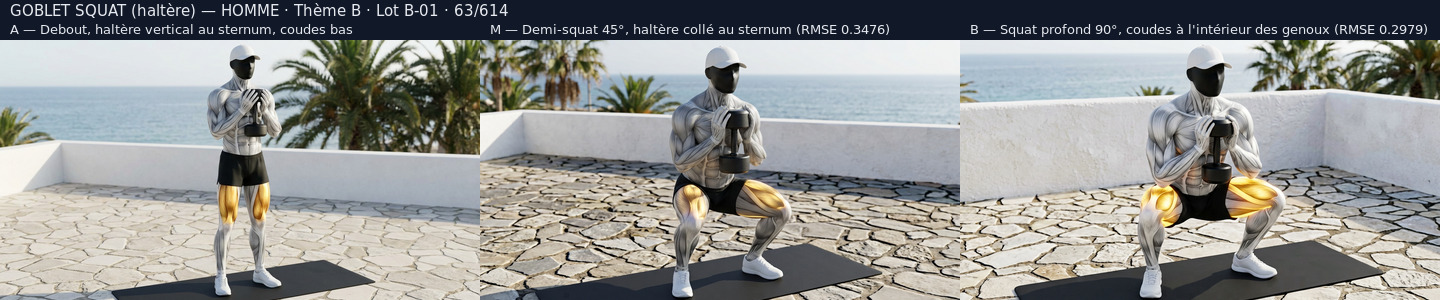
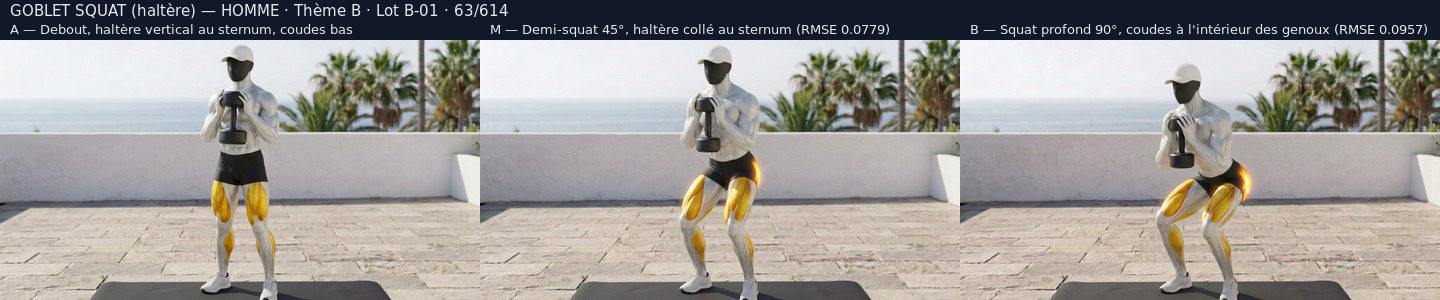
fix(animations): corrige l'identite du mannequin (retour user) + garde-fou des sources B-01
RETOUR DU USER : « l'homme a l'air different des autres gif » puis « il semble moins
muscle aussi ». Verifie et confirme : le mannequin du Lot B-01 rendu par le generateur
a une peau STRIEE de fibres grises (aspect ecorche) au lieu du blanc argente LISSE et
MAT du chantier, une carrure plus FINE (epaules, deltoides, pectoraux, bras) et une
echelle plus petite dans le cadre. Cause : frames generees d'un prompt texte seul, sans
ancrage sur une pose de reference validee.

Ce commit :
- remplace le GIF et la planche `goblet-squat` par une version a PEAU LISSE conforme
  (3 positions regenerees depuis les poses de reference validees
  themeA/_sources/A-02/squat-poids-du-corps-{A,M,B}.png ; RMSE A->M 0,0779 et M->B
  0,0957, camera stable cette fois) ;
- declare la reserve de MORPHOLOGIE (carrure encore trop fine) : `goblet-squat` reste
  livre SOUS RESERVE d'identite, et le `step-up` n'est PAS livre (3/3 positions
  obtenues, 0 livree) ;
- deplace les positions payees dans themeB/_sources/B-01/_reprise/ avec des noms
  explicites (reference de POSE + etat de conformite), pour qu'aucun assemblage ne
  puisse se faire par erreur avec des frames heterogenes ;
- ajoute _reprise/_diagnostic/ : les 2 comparatifs a l'echelle 1:1 qui prouvent le
  defaut et valident le remede ;
- consigne dans SUIVI.md : le paragraphe de masse musculaire qui a fonctionne
  (carrure massive + peau lisse obtenues en 1 test), la nouvelle regle de controle
[…]

diff --git a/yanis-fitness-evolution/animations/SUIVI.md b/yanis-fitness-evolution/animations/SUIVI.md
@@ -12,7 +12,7 @@ Animation : **3 positions** (départ → mi-course → finale → retour → bou
 | Élément | Valeur |
 | --- | --- |
 | Animations nécessaires | **614** (périmètre HOMME + FEMME, voir ci-dessous) |
-| Animations créées | **63 / 614** (POC 5 + L1 : 3 + L2 : 3 + L3 : 2 + L4 : 3 + L5 : 3 + A-01 : 3 + A-02 : 3 + A-03 : 3 + A-04 HOMME : 3 + A-05 HOMME : 2 + **A-08/09 HOMME : 3/3 ✅** (`204a8b4`) + A-01 FEMME : 3 + A-02 FEMME : 3 + A-03 FEMME : 3 + A-04 FEMME : 3 + A-05 FEMME : 2 + **A-08F/09F FEMME : 3/3 ✅** (`5467b86`) + **R1 FEMME : 3** + **R2 FEMME : 3** + **LOT 3 FEMME : 2 composites** + **B-01 HOMME : 2/3** (`bulgarian-split-squat` `c2efd7d` + `goblet-squat` `f11b3b9`)) |
+| Animations créées | **63 / 614 — dont 1 livrée SOUS RÉSERVE d'identité** (`goblet-squat` HOMME, morphologie à reprendre : voir § NON-CONFORMITÉ) (POC 5 + L1 : 3 + L2 : 3 + L3 : 2 + L4 : 3 + L5 : 3 + A-01 : 3 + A-02 : 3 + A-03 : 3 + A-04 HOMME : 3 + A-05 HOMME : 2 + **A-08/09 HOMME : 3/3 ✅** (`204a8b4`) + A-01 FEMME : 3 + A-02 FEMME : 3 + A-03 FEMME : 3 + A-04 FEMME : 3 + A-05 FEMME : 2 + **A-08F/09F FEMME : 3/3 ✅** (`5467b86`) + **R1 FEMME : 3** + **R2 FEMME : 3** + **LOT 3 FEMME : 2 composites** + **B-01 HOMME : 2/3** (`bulgarian-split-squat` `c2efd7d` + `goblet-squat` `f11b3b9`)) |
 | Restant à produire | **551** |
 | Animations corrigées (option A + feu vert du 2026-10-07) | 3 / 5 (option A) + **4 corrections feu vert** (squat F pos M, abduction F pos B, fire hydrant F A/M/B en arrière 3/4, squat H A/M/B) |
 | Animations femme à reprendre | **0** ✅ (squat M, abduction B et fire hydrant A/M/B tous corrigés le 2026-10-07) |
@@ -817,13 +817,85 @@ LOT A-02 FEMME (profil / face).
 
 ---
 
+## ⛔ NON-CONFORMITÉ D'IDENTITÉ SIGNALÉE PAR LE USER — 2026-10-08 (PRIORITÉ au prochain tour)
+
+Le user a signalé, planche `LOT-B01-goblet-squat-PLANCHE-FINALE.jpg` en main :
+**« l'homme a l'air différent des autres gif »** puis **« il semble moins musclé aussi »**.
+
+### Constat vérifié (comparatif à l'échelle 1:1 avec les poses de référence validées)
+
+| Point contrôlé | Verdict |
+| --- | --- |
+| Première version du goblet (commit `f11b3b9`) | ❌ **peau striée de fibres grises / aspect écorché**, alors que le style validé est un **blanc argenté LISSE et mat** |
+| Silhouette / masse musculaire | ❌ **plus fin que les autres GIF** : épaules moins larges, deltoïdes et pectoraux moins volumineux, bras plus minces → **carrure non conforme** (comparatif 1:1 `themeA/_sources/A-02/squat-poids-du-corps-A.png` vs `goblet-squat-A`) |
+| Échelle dans le cadre | ❌ le mannequin est **plus petit** que dans les GIF du Thème A (cadrage trop large) |
+| Technique du mouvement | ✅ conforme (haltère vertical au sternum, coudes bas, squat profond, coudes à l'intérieur des genoux) |
+
+### Cause identifiée
+
+Ces frames ont été générées en **partant d'un simple prompt texte** au lieu d'être
+**ancrées sur une pose de référence validée**. Le générateur a alors rendu son propre
+mannequin (peau striée, carrure plus fine), pas celui du chantier. Même famille de dérive
+que les réserves déjà notées (corps « brillant » du mountain climbers, dallage refait en
+grandes dalles lisses).
+
+### Remède testé et VALIDÉ (1 image de test, 2026-10-08)
+
+Régénération testée en repartant de la pose de référence validée **et** en ajoutant un
+paragraphe de **masse musculaire explicite**. Résultat : **carrure nettement plus massive
+et conforme** (épaules très larges, gros deltoïdes, bras épais, pectoraux volumineux), peau
+**lisse et mate** — la voie est bonne. Le paragraphe qui a fonctionné (à réutiliser mot
+pour mot) :
+
+> He is a VERY muscular, heavily hypertrophied 3D anatomical bodybuilder: extremely wide
+> shoulders and big round deltoids, thick massive arms, huge full rounded pectorals, wide
+> lats, deep defined abdominals, narrow waist, powerful legs. IMPORTANT: do NOT slim him
+> down, do NOT make him leaner or narrower — copy his exact silhouette, shoulder width,
+> arm thickness, chest volume and muscle size from this reference image. He must fill the
+> frame exactly the same way (same camera, same distance, same framing, same scale).
+
+⚠ Sur ce test, la **poigne** était en revanche fautive (une main au-dessus de la tête de
+l'haltère au lieu de la **coupe à deux mains sous la tête supérieure**) : la prochaine
+régénération doit appliquer **les deux consignes à la fois** (masse + poigne en coupe).
+
+### Nouvelle règle de contrôle du chantier (à appliquer AVANT tout assemblage)
+
+1. **Contrôle d'identité** : comparer la nouvelle frame **à 1:1** (même recadrage, aucun
+   redimensionnement) avec une **pose de référence validée** (`themeA/_sources/A-02/squat-poids-du-corps-A.png`
+   pour l'homme, `themeA/femme/_sources/A-02F/` pour la femme) et vérifier trois points :
+   (a) peau blanche argentée **lisse et mate** (aucune fibre grise striée) ;
+   (b) **carrure** (largeur d'épaules, volume pectoraux/bras) comparable ;
+   (c) **échelle** dans le cadre comparable.
+2. **Partir d'une pose de référence validée** — jamais d'un prompt texte seul — dès qu'une
+   pose doit être créée « de zéro ».
+3. Si la masse musculaire a fondu → **ajouter le paragraphe de masse** ci-dessus.
+
+### État de reprise (matériel déjà payé, conservé dans git)
+
+`themeB/_sources/B-01/_reprise/` :
+
+| Fichier | Contenu | Usage au prochain tour |
+| --- | --- | --- |
+| `goblet-squat-A-v3-base-massive-poigne-a-corriger.png` | **base la plus conforme en masse** (carrure massive, peau lisse) — poigne fautive (1 main au-dessus) | **référence pour régénérer A** (corriger la poigne), puis M et B depuis ce nouveau A |
+| `goblet-squat-M-v2-corps-fin.png` | mi-squat 45°, technique conforme, **corps fin** | référence de POSE uniquement |
+| `goblet-squat-B-v2-corps-fin.png` | squat profond 90° coudes aux genoux, **corps fin** | référence de POSE uniquement |
+| `step-up-A-v2-corps-fin.png` | départ step-up, pied gauche entier sur le banc, **corps fin** | référence de POSE |
+| `step-up-M-v2-corps-fin.png` | mi-montée, pied droit décollé, **corps fin** | référence de POSE |
+| `step-up-B-v3-plateforme-corps-fin.png` | **seule pose « debout sur un support » obtenue** en 5 tentatives (support devenu une **marche basse** au lieu du banc long), **corps fin** | référence de POSE (⚠ support à remplacer par le banc long) |
+
+⚠ **Le dossier `_sources/B-01/` ne contient plus que les 3 PNG du `bulgarian-split-squat`.**
+Les positions du `goblet-squat` et du `step-up` ont été déplacées dans `_reprise/` afin
+qu'**aucun assemblage ne puisse se faire par erreur** avec des frames hétérogènes.
+
+---
+
 ## THÈME B — MUSCULATION · LOT B-01 HOMME (2 / 3 livré : `bulgarian-split-squat`, `goblet-squat`) — 2026-10-07/08 (`c2efd7d`, `f11b3b9`)
 
 | Fichier | Exercice | Positions | Statut |
 | --- | --- | --- | --- |
 | `themeB/bulgarian-split-squat-3poses.gif` | Bulgarian split squat HOMME (poids du corps) | Vue trois-quarts avant sur tapis noir avec banc de musculation plat noir derrière : A = départ jambe avant droite tendue, pied arrière gauche en appui sur le banc noir, mains aux hanches · M = demi-descente à ~45°, bras levés pour l'équilibre (réserve : banc noir légèrement plus décalé à droite sur M) · B = squat bulgare profond à 90° (cuisse avant horizontale parallèle au sol, genou arrière bas sous le banc, bras à l'horizontale) | ✅ **livré (`c2efd7d`)** (RMSE A→M = **0,1278**, M→B = **0,1347**) |
-| `themeB/goblet-squat-3poses.gif` | Goblet squat HOMME (haltère) | Vue trois-quarts avant sur tapis noir, pieds largeur d'épaules pointes ouvertes : A = debout jambes tendues, **haltère noir tenu verticalement en coupe contre le sternum** (les deux mains sous la tête supérieure, coudes pointés vers le bas) · M = demi-squat contrôlé à ~45°, haltère collé au sternum · B = squat profond 90° (hanches sous la ligne des genoux), **coudes à l'intérieur des genoux**, talons au sol, buste vertical | ✅ **livré (`f11b3b9`)** (RMSE A→M = **0,3476**, M→B = **0,2979**) |
-| `themeB/step-up-sur-banc-hauteur-du-genou-3poses.gif` | Step-up sur banc (hauteur du genou) HOMME | **EN COURS** : A et M conformes dans `_sources/B-01/` (voir § suivant) — la position B reste à produire | ⚠ **2 / 3 positions** |
+| `themeB/goblet-squat-3poses.gif` | Goblet squat HOMME (haltère) | Vue trois-quarts avant sur tapis noir, pieds largeur d'épaules pointes ouvertes : A = debout jambes tendues, **haltère noir tenu verticalement en coupe contre le sternum** (les deux mains sous la tête supérieure, coudes pointés vers le bas) · M = demi-squat contrôlé à ~45°, haltère collé au sternum · B = squat profond 90° (hanches sous la ligne des genoux), **coudes à l'intérieur des genoux**, talons au sol, buste vertical | ⚠ **livré sous RÉSERVE d'identité (`f11b3b9`, retouché le 2026-10-08)** : technique conforme, **morphologie à reprendre** (carrure plus fine que le reste du chantier ; 1re version à peau striée) → régénération des 3 positions prévue. RMSE A→M = **0,0779**, M→B = **0,0957** (mesure propre, caméra stable) |
+| `themeB/step-up-sur-banc-hauteur-du-genou-3poses.gif` | Step-up sur banc (hauteur du genou) HOMME | **NON LIVRÉ** : les 3 positions existent (A pied sur le banc → M mi-montée → B debout sur le support) mais **toutes au corps « fin »**, et la position B repose sur une **marche basse** au lieu du banc long → **série à régénérer** (voir § NON-CONFORMITÉ) | ⛔ **3 / 3 positions obtenues, 0 livrée** |
 
 **Aperçus dans le dépôt (règle 15) :**
 - `themeB/LOT-B01-bulgarian-split-squat-PLANCHE-FINALE.jpg` ;
@@ -861,6 +933,30 @@ et M/B (plus serrés)** sur le `goblet-squat`, comme cela avait déjà été ass
 - **Aucune animation `step-up-...-3poses.gif` n'est livrée ce tour** : l'exercice est
   annoncé **incomplet**, jamais masqué (règle 4). Les 2 positions saines sont conservées
   dans git pour ne pas les payer deux fois (règle 12).
+
+### Budget d'images IA du 10ᵉ tour Fitness 13 — 10 / 10 (drapeau rouge technique) — TOUR DE CORRECTION D'IDENTITÉ
+
+Déclenché par le retour du user (« l'homme a l'air différent des autres gif » puis « il
+semble moins musclé aussi »). Objectif du tour : réparer l'identité (peau lisse + carrure)
+et finir le `step-up`.
+
+| # | Appel | Résultat |
+| --- | --- | --- |
+| 1 | `goblet-squat` A v2 (depuis la pose de référence validée, consigne « peau lisse sans fibres striées ») | ✅ conforme en peau — corrige l'aspect écorché (mais corps encore **fin**) |
+| 2 | `goblet-squat` M v2 (depuis `squat-poids-du-corps-M`) | ✅ conforme (RMSE A→M = **0,0779**, caméra stable) |
+| 3 | `goblet-squat` B v2 (depuis `squat-poids-du-corps-B`) | ✅ conforme (RMSE M→B = **0,0957**) |
+| 4 | `step-up` A v2 (depuis la pose de référence, banc en travers devant) | ✅ conforme (pied gauche entier sur le banc, 2 jambes lisibles) |
+| 5 | `step-up` M v2 (chaînée depuis le nouveau A) | ✅ conforme (pied droit décollé, pied gauche toujours sur le banc) |
+| 6 | `step-up` B tentative 1 (depuis M, consigne « debout sur le banc ») | ❌ rejetée : le mannequin reste **au sol**, le banc reste vide à côté |
+| 7 | `step-up` B tentative 2 (depuis A, consigne « poser le 2ᵉ pied sur le banc ») | ❌ rejetée : même échec (mannequin au sol) |
+| 8 | `step-up` B tentative 3 (**changement de vocabulaire : « step platform » au lieu de « bench »**) | ✅ **pose correcte** (debout, jambes tendues, les 2 pieds sur le support) — ⚠ mais le support est devenu une **marche basse** et non le banc long |
+| 9 | `step-up` B tentative 4 (remettre le banc long sous ses pieds) | ⏹ **appel interrompu par le user** — compté honnêtement, aucune image retenue |
+| 10 | `goblet-squat` A v3 (**test du paragraphe de masse musculaire**) | ✅ **carrure massive et conforme, peau lisse** → **remède validé** ; ❌ poigne fautive (1 main au-dessus de l'haltère) → base conservée pour la reprise |
+
+**Bilan du tour : 3 images réellement livrables** (les deux séries restent à régénérer pour
+la morphologie) **+ 5 rejets + 1 appel interrompu**. Drapeau rouge : **10 / 10**.
+Aucune image rejetée n'est intégrée à une animation livrée. Aucune animation n'a été
+annoncée comme terminée à tort.
 
 ### Budget d'images IA du 9ᵉ tour Fitness 13 — 10 / 10 (drapeau rouge technique)
 

diff --git a/CONSIGNE-A-COPIER-COLLER.md b/CONSIGNE-A-COPIER-COLLER.md
@@ -48,24 +48,48 @@ Lis ensuite `PASSATION-ANIMATIONS.md`, `yanis-fitness-evolution/animations/SUIVI
     - ✅ **`bulgarian-split-squat` HOMME** (`c2efd7d`, **62 / 614**) : squat bulgare au poids
       du corps en vue 3/4 avant sur tapis noir avec banc noir derrière (RMSE A→M `0,1278`,
       M→B `0,1347`, planche `themeB/LOT-B01-bulgarian-split-squat-PLANCHE-FINALE.jpg`).
-    - ✅ **`goblet-squat` HOMME** (`f11b3b9`, **63 / 614**) : haltère noir tenu verticalement
-      en coupe contre le sternum, A debout → M demi-squat 45° → B squat profond 90° coudes à
-      l'intérieur des genoux (planche `themeB/LOT-B01-goblet-squat-PLANCHE-FINALE.jpg`).
-      ⚠ **Réserve déclarée** : le générateur a aussi changé l'échelle de caméra — mesuré sur
-      le **décor seul**, l'écart A→M est de `0,3946` (contre `0,1301` pour le bulgarian déjà
-      livré). Les RMSE affichés (`0,3476` / `0,2979`) **ne mesurent donc pas le mouvement** ;
-      la lisibilité a été validée à l'œil. Le dire tel quel, ne pas le maquiller.
-    - ⚠ **`step-up-sur-banc-hauteur-du-genou` HOMME : 2 / 3 positions** — A et M conformes
-      dans `themeB/_sources/B-01/`, **la position B a été refusée 5 fois** (le générateur
-      repose le mannequin au sol au lieu de le hisser sur le banc) → **aucun GIF livré, ne pas
-      annoncer l'exercice comme terminé**. Pistes : vue de profil, ou générer B d'abord.
+    - ⚠ **`goblet-squat` HOMME** (`f11b3b9`, **63 / 614**) : technique conforme (haltère
+      vertical au sternum, A debout → M demi-squat 45° → B squat profond coudes aux genoux),
+      mais **livré SOUS RÉSERVE d'identité** → **à régénérer** (voir le retour user ci-dessous).
+      Les 3 positions ont été refaites le 2026-10-08 avec une **peau lisse conforme** (RMSE
+      A→M `0,0779`, M→B `0,0957`, caméra stable) — la **carrure** reste à corriger.
+    - ⛔ **`step-up-sur-banc-hauteur-du-genou` HOMME** : **3 / 3 positions obtenues, 0 livrée**.
+      A (pied entier sur le banc) et M (pied opposé décollé) sont bonnes en pose mais au corps
+      « fin » ; B (debout sur le support) n'a été obtenue qu'avec le vocabulaire « step
+      platform » et le support rendu est une **marche basse** au lieu du banc long →
+      **série à régénérer**, **ne pas annoncer l'exercice comme terminé**.
+- 🔴 **RETOUR DU USER (2026-10-08) — PRIORITÉ ABSOLUE : l'homme du Lot B-01 « a l'air
+  différent des autres GIF » et « semble moins musclé ».** C'est exact et vérifié : carrure
+  plus **fine** que le reste du chantier + 1ʳᵉ version à **peau striée / écorchée** (le style
+  validé est un argenté **lisse et mat**). **Cause** : frames générées d'un **prompt texte
+  seul**, sans ancrage sur une pose de référence validée.
+  **Remède VALIDÉ** (testé) : partir de `themeA/_sources/A-02/squat-poids-du-corps-A.png`
+  (ou `themeA/femme/_sources/A-02F/…` pour la femme) **et** ajouter ce paragraphe :
+  > He is a VERY muscular, heavily hypertrophied 3D anatomical bodybuilder: extremely wide
+  > shoulders and big round deltoids, thick massive arms, huge full rounded pectorals, wide
+  > lats, deep defined abdominals, narrow waist, powerful legs. IMPORTANT: do NOT slim him
+  > down, do NOT make him leaner or narrower — copy his exact silhouette, shoulder width,
+  > arm thickness, chest volume and muscle size from this reference image. He must fill the
+  > frame exactly the same way (same camera, same distance, same framing, same scale).
+
+  **Nouveau contrôle obligatoire avant CHAQUE assemblage** : comparer la frame **à 1:1**
+  (sans redimensionner) avec la pose de référence validée sur trois points — (a) peau lisse
+  et mate sans fibres grises, (b) carrure comparable, (c) échelle comparable. À appliquer
+  aussi au `bulgarian-split-squat` déjà livré (`c2efd7d`), à recontrôler.
+  **Matériel de reprise payé** : `themeB/_sources/B-01/_reprise/` (poses correctes au corps
+  fin + la base massive `goblet-squat-A-v3-base-massive-poigne-a-corriger.png`).
+  ⚠ `_sources/B-01/` ne contient plus que les PNG du `bulgarian-split-squat` : tout
+  assemblage depuis ce dossier échouera volontairement (garde-fou anti-frames-hétérogènes).
+- **Déblocage technique trouvé pour le step-up** : le mot « bench » fait asseoir le
+  mannequin ou le laisse au sol ; écrire **« STEP PLATFORM (solid black plyometric step,
+  ~45 cm tall, 60 cm deep)… he is the one who is high: both sneakers planted flat on its top,
+  the step UNDER his feet, carrying his full weight »** débloque la pose « debout sur le
+  support ». Reste à corriger la **forme du support** (marche basse → banc long) et la
+  **morphologie**.
 - **À FAIRE IMMÉDIATEMENT, dans l'ordre :**
-  1. **Finir `step-up-sur-banc-hauteur-du-genou` HOMME : 1 SEULE image** (position B = extension
-     complète debout sur le banc noir). A et M sont **déjà commitées** dans
-     `themeB/_sources/B-01/` — ne pas les régénérer, elles sont payées. Pistes : (a) repartir de
-     M en demandant explicitement de **hisser le mannequin sur le banc** ; (b) passer en **vue
-     de profil** (le profil débloque les poses qui échouent en 3/4) ; (c) générer **B d'abord**
-     et re-chaîner A et M depuis les sources déjà dans git.
+  1. **Régénérer les séries `goblet-squat` ET `step-up` HOMME avec la bonne identité**
+     (carrure massive + peau lisse) en appliquant le remède et le contrôle 1:1 ci-dessus.
+     Le `step-up` a besoin du support = **banc long** (pas la marche basse).
   2. **Assembler le Lot B-01 HOMME** : planche animée `themeB/LOT-B01-quadriceps.gif`
      (`1420×265`, 4 frames) + grille 3×3 `themeB/LOT-B01-PLANCHE-TRAVAIL.jpg` (`1440×900`).
      ⚠ `scripts/build-gif-lot.sh` **régénère** les 3 GIFs individuels depuis des PNG

diff --git a/PASSATION-ANIMATIONS.md b/PASSATION-ANIMATIONS.md
@@ -235,17 +235,62 @@ f07c04d  feat(animations): livre circuit-gainage FEMME composite (9/9, 44/614)
 
 ## 5. PROCHAINE ACTION IMMÉDIATE (AU PROCHAIN TOUR)
 
+### 🔴 PRIORITÉ ABSOLUE — rattraper la CONFORMITÉ D'IDENTITÉ du Lot B-01
+
+**Le user a signalé le 2026-10-08 que le mannequin du `goblet-squat` « a l'air différent des
+autres GIF » et « semble moins musclé ».** Vérifié : c'est exact — carrure plus **fine** que
+le reste du chantier, et la 1ʳᵉ version livrée avait même une **peau striée / aspect écorché**
+(le style validé est un blanc argenté **LISSE et mat**). Détail complet, preuves et
+comparatifs dans `yanis-fitness-evolution/animations/SUIVI.md` § « NON-CONFORMITÉ
+D'IDENTITÉ ».
+
+**Cause** : ces frames ont été générées d'un **prompt texte seul**, sans ancrage sur une pose
+de référence validée → le générateur a rendu son propre mannequin.
+
+**Remède VALIDÉ par un test de ce tour** (à réutiliser mot pour mot) — partir de la pose de
+référence validée **et** ajouter ce paragraphe :
+
+> He is a VERY muscular, heavily hypertrophied 3D anatomical bodybuilder: extremely wide
+> shoulders and big round deltoids, thick massive arms, huge full rounded pectorals, wide
+> lats, deep defined abdominals, narrow waist, powerful legs. IMPORTANT: do NOT slim him
+> down, do NOT make him leaner or narrower — copy his exact silhouette, shoulder width,
+> arm thickness, chest volume and muscle size from this reference image. He must fill the
+> frame exactly the same way (same camera, same distance, same framing, same scale).
+
+**NOUVELLE RÈGLE DE CONTRÔLE (à appliquer avant CHAQUE assemblage)** — comparer la frame
+**à 1:1** (aucun redimensionnement) avec `themeA/_sources/A-02/squat-poids-du-corps-A.png`
+(homme) ou `themeA/femme/_sources/A-02F/` (femme) sur trois points : **(a)** peau lisse et
+mate sans fibres grises, **(b)** carrure comparable, **(c)** échelle dans le cadre comparable.
+À appliquer **aussi** au `bulgarian-split-squat` livré (`c2efd7d`) : à recontrôler avant de
+valider le lot.
+
+**Matériel de reprise déjà payé** (dans `themeB/_sources/B-01/_reprise/`, à utiliser comme
+références de **POSE**) :
+- `goblet-squat-A-v3-base-massive-poigne-a-corriger.png` = **la base la plus conforme en
+  masse** (mais poigne fautive : 1 main au-dessus de l'haltère au lieu de la coupe à deux
+  mains) → **régénérer A en corrigeant la poigne**, puis M et B depuis ce nouveau A ;
+- `goblet-squat-{M,B}-v2-corps-fin.png` = poses du goblet correctes, corps fin ;
+- `step-up-{A,M}-v2-corps-fin.png` = poses du step-up correctes (pied entier sur le banc),
+  corps fin ;
+- `step-up-B-v3-plateforme-corps-fin.png` = seule pose « debout sur un support » obtenue
+  (support = marche basse, à remplacer par le banc long).
+
+⚠ `_sources/B-01/` ne contient plus que les PNG du `bulgarian-split-squat` : **tout
+assemblage de GIF depuis ce dossier échouera volontairement** tant que les nouvelles séries
+ne sont pas régénérées (garde-fou contre les frames hétérogènes).
+
+### Ensuite, dans l'ordre
+
 1. **Finir `step-up-sur-banc-hauteur-du-genou` HOMME — 1 seule image à produire** (position B :
    extension complète debout sur le banc noir). Les positions **A et M sont déjà conformes et
    commitées** dans `themeB/_sources/B-01/` — **ne pas les régénérer** (elles ont été payées).
-   Les 5 tentatives de ce tour ont été refusées (le générateur repose le mannequin au sol au
-   lieu de le hisser sur le banc) :
-   - *piste 1* : repartir de la position M avec une consigne « lève le mannequin : ses deux
-     pieds sont SUR le dessus du banc » — et non « reste au même endroit » ;
-   - *piste 2* : passer en **vue de profil** (le profil débloque les poses que la vue
-     trois-quarts fait échouer — même leçon qu'avec le fire hydrant FEMME) ;
-   - *piste 3* : **générer B d'abord** (mannequin debout sur le banc) puis re-chaîner A et M
-     depuis les sources saines déjà dans git.
+   ✅ **Le déblocage a été trouvé au 10ᵉ tour : le mot « bench » pousse le générateur à
+   ASSEOIR le mannequin ou à le laisser au sol. En remplaçant « bench » par
+   « STEP PLATFORM (solid black plyometric step, ~45 cm tall, 60 cm deep) » et en écrivant
+   « he is the one who is high: both sneakers are planted flat on the black top, the step is
+   directly UNDER his feet, carrying his full weight », la pose a été obtenue du premier coup.**
+   Reste à corriger dans la même consigne : **la forme du support** (le générateur a rendu une
+   **marche basse** au lieu du **banc long**) et **la morphologie** (corps fin).
    ⚠ Ne jamais livrer cet exercice avec seulement 2 positions ni recycler une image d'un
    autre exercice (règles 1 et 4).
 2. **Assembler le Lot B-01 HOMME** une fois B livrée :
